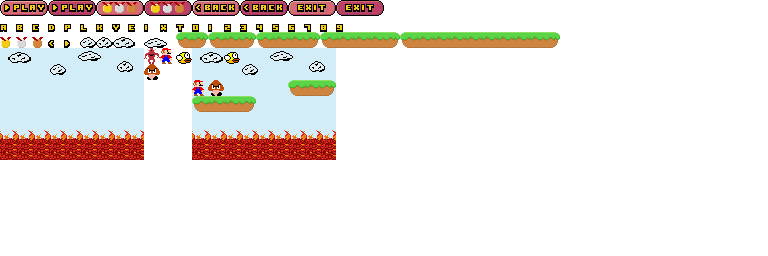
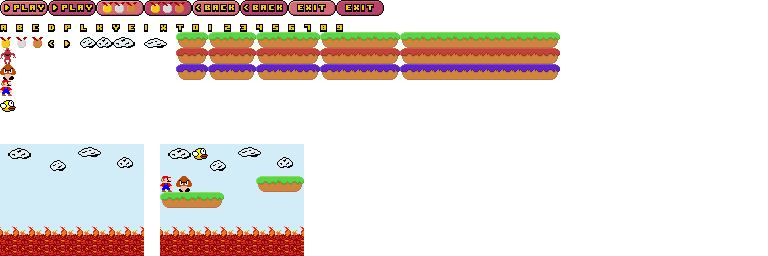
blablabla

diff --git a/src/sceneAreas/RenderArea.java b/src/sceneAreas/RenderArea.java
@@ -28,6 +28,7 @@ public class RenderArea extends JPanel {
 	private Player player;
 	private ArrayList<Sprite> allSprites = new ArrayList<Sprite>();
 	private ArrayList<Sprite> movingSprites = new ArrayList<Sprite>();
+	private Sprite backgroundImage;
 	private Sprite[] platforms = new Sprite[5];
 
 	public RenderArea(JFrame frame, int actualWidth, int actualHeight,
@@ -80,20 +81,12 @@ public class RenderArea extends JPanel {
 		platforms[2] = new Sprite(menuHandler.getSprite(202).getImage(), 202);
 		platforms[3] = new Sprite(menuHandler.getSprite(203).getImage(), 203);
 		platforms[4] = new Sprite(menuHandler.getSprite(204).getImage(), 204);
+
+		backgroundImage = new Sprite(menuHandler.getSprite(400).getImage(), 400);
+		allSprites.add(backgroundImage);
+
 	}
 
-	protected void addPlatforms() {
-		int spriteID, rightmostX = 0;
-		
-		//int distance = ThreadLocalRandom.current().nextInt(min, max + 1);
-		
-		for (Sprite sprite : movingSprites) {
-			spriteID = sprite.getId();
-			if (200 <= spriteID && spriteID <= 299) {
-				rightmostX = sprite.getX()+sprite.getImage().getWidth();
-			}
-		}
-	}
 
 	public void addSprite(Sprite sprite) {
 		allSprites.add(sprite);
@@ -121,12 +114,12 @@ public class RenderArea extends JPanel {
 		int spriteID;
 
 		Sprite mainchar = player.getPlayerSprite();
-		
+
 		player.setOnGround(false);
 
 		if (movingSprites != null) {
 			for (Sprite sprite : movingSprites) {
-				
+
 				player.setOnGround(false);
 
 				Line2D.Float line = new Line2D.Float(mainchar.getX(),
@@ -168,7 +161,7 @@ public class RenderArea extends JPanel {
 	@Override
 	protected void paintComponent(Graphics g) {
 		super.paintComponent(g);
-		int x, y, spriteWidth, spriteHeigth;
+		int x, y, spriteWidth, spriteHeight;
 
 		for (Sprite sprite : allSprites) {
 			if (sprite == null) {
@@ -178,7 +171,7 @@ public class RenderArea extends JPanel {
 
 			// Get sprite dimensions and location
 			spriteWidth = sprite.getWidth();
-			spriteHeigth = sprite.getHeight();
+			spriteHeight = sprite.getHeight();
 			x = sprite.getX();
 			y = sprite.getY();
 			// Change coordinate system
@@ -188,8 +181,8 @@ public class RenderArea extends JPanel {
 			// Draw sprite
 			g.drawImage(sprite.getImage(), Math.round(x * scaleFactor
 					- spriteWidth * scaleFactor / 2), Math.round(y
-					* scaleFactor - spriteHeigth * scaleFactor / 2), Math
-					.round(spriteWidth * scaleFactor), Math.round(spriteHeigth
+					* scaleFactor - spriteHeight * scaleFactor / 2), Math
+					.round(spriteWidth * scaleFactor), Math.round(spriteHeight
 					* scaleFactor), null);
 
 			g.setColor(Color.GREEN);
@@ -203,7 +196,7 @@ public class RenderArea extends JPanel {
 					Math.round(sprite.collisionbox.width * scaleFactor),
 					Math.round(sprite.collisionbox.height * scaleFactor));
 		}
-		
+
 		// TODO
 		Sprite mainchar = player.getPlayerSprite();
 		x = mainchar.getX();
@@ -227,6 +220,19 @@ public class RenderArea extends JPanel {
 		return (20 - (long) (0.001 * x + 1));
 	}
 
+	protected void addPlatforms() {
+		int spriteID, rightmostX = 0;
+
+		// int distance = ThreadLocalRandom.current().nextInt(min, max + 1);
+
+		for (Sprite sprite : movingSprites) {
+			spriteID = sprite.getId();
+			if (200 <= spriteID && spriteID <= 299) {
+				rightmostX = sprite.getX() + sprite.getImage().getWidth();
+			}
+		}
+	}
+	
 	public void startLoop() {
 		run = true;
 		setFocusable(true);
@@ -234,13 +240,14 @@ public class RenderArea extends JPanel {
 		// final int fps = 60;
 		// final long optimalTime = 1000 / fps;
 		rescale();
-		
+
 		// Run loop in new thread so it doesn't block everything
 		Thread thread = new Thread(new Runnable() {
 			@Override
 			public void run() {
 				int x = 0;
-				addSprite(platforms[4], getGameWidth() / 4, -getGameHeight() / 2 + 16);
+				addSprite(platforms[4], getGameWidth() / 4,
+						-getGameHeight() / 2 + 32);
 
 				while (player.getIsAlive()) {
 					addPlatforms();
@@ -256,7 +263,7 @@ public class RenderArea extends JPanel {
 					updateX();
 					checkCollision();
 					repaint();
-					if (x < 18000) { // Förhindrar negativ sleep. Max 19000?
+					if (x <= 18000) { // Förhindrar negativ sleep. Max 19000?
 						x++;
 					}
 				}

diff --git a/src/main/Spritesheet.java b/src/main/Spritesheet.java
@@ -52,6 +52,7 @@ public class Spritesheet {
 				spritesheet.getSubimage(336, 0, 3 * spriteSize, spriteSize), 7); // exitButton
 		createSprite(
 				spritesheet.getSubimage(384, 0, 3 * spriteSize, spriteSize), 8); // -Rollover
+
 		// Bokstäver och text, 100-199
 
 		// Plattformar, 200-299
@@ -70,19 +71,51 @@ public class Spritesheet {
 				203); // Size 5
 		createSprite(
 				spritesheet.getSubimage(400, 32, 10 * spriteSize, spriteSize),
-				204); // Size 5
+				204); // Size 10
+		createSprite(
+				spritesheet.getSubimage(176, 48, 2 * spriteSize, spriteSize),
+				210); // Size 2
+		System.out.println("added");
+		createSprite(
+				spritesheet.getSubimage(208, 48, 3 * spriteSize, spriteSize),
+				211); // Size 3
+		createSprite(
+				spritesheet.getSubimage(256, 48, 4 * spriteSize, spriteSize),
+				212); // Size 4
+		createSprite(
+				spritesheet.getSubimage(320, 48, 5 * spriteSize, spriteSize),
+				213); // Size 5
+		createSprite(
+				spritesheet.getSubimage(400, 48, 10 * spriteSize, spriteSize),
+				214); // Size 10
+		createSprite(
+				spritesheet.getSubimage(176, 64, 2 * spriteSize, spriteSize),
+				220); // Size 2
+		System.out.println("added");
+		createSprite(
+				spritesheet.getSubimage(208, 64, 3 * spriteSize, spriteSize),
+				221); // Size 3
+		createSprite(
+				spritesheet.getSubimage(256, 64, 4 * spriteSize, spriteSize),
+				222); // Size 4
+		createSprite(
+				spritesheet.getSubimage(320, 64, 5 * spriteSize, spriteSize),
+				223); // Size 5
+		createSprite(
+				spritesheet.getSubimage(400, 64, 10 * spriteSize, spriteSize),
+				224); // Size 10
+
 		// Player och NPC, 300-399
-		createSprite(
-				animationSheet.getSubimage(0, 0, spriteSize, spriteSize),
+		createSprite(animationSheet.getSubimage(0, 0, spriteSize, spriteSize),
 				300);
-		createSprite(
-				animationSheet.getSubimage(16, 0, spriteSize, spriteSize),
+		createSprite(animationSheet.getSubimage(16, 0, spriteSize, spriteSize),
 				301);
+		
 		// Bakgrunder, 400-499
 		createSprite(
-				spritesheet.getSubimage(0, 48, 9 * spriteSize, 7 * spriteSize),
+				spritesheet.getSubimage(0, 144, 9 * spriteSize, 7 * spriteSize),
 				400); // Default game background
-		createSprite(spritesheet.getSubimage(192, 48, 9 * spriteSize,
+		createSprite(spritesheet.getSubimage(160, 144, 9 * spriteSize,
 				7 * spriteSize), 410); // Splashscreen
 
 		// Partiklar, 500-599
